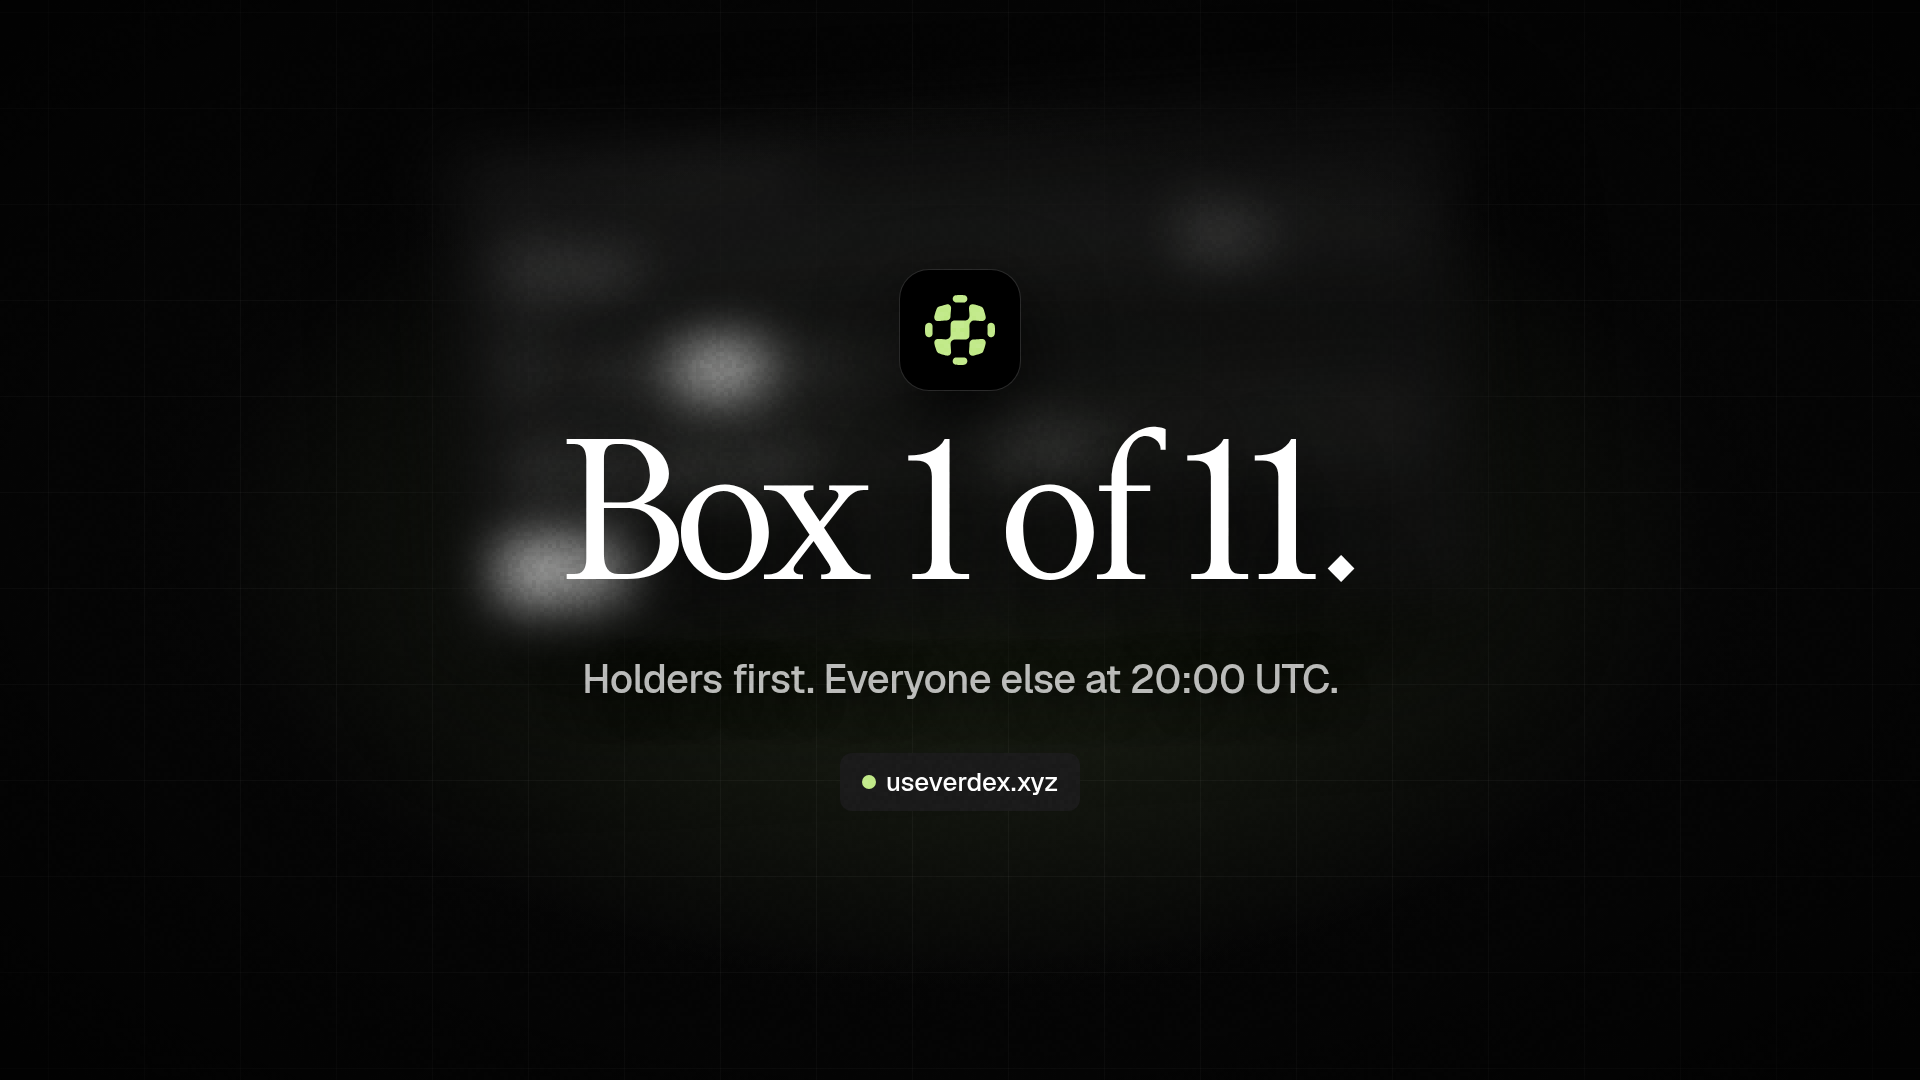
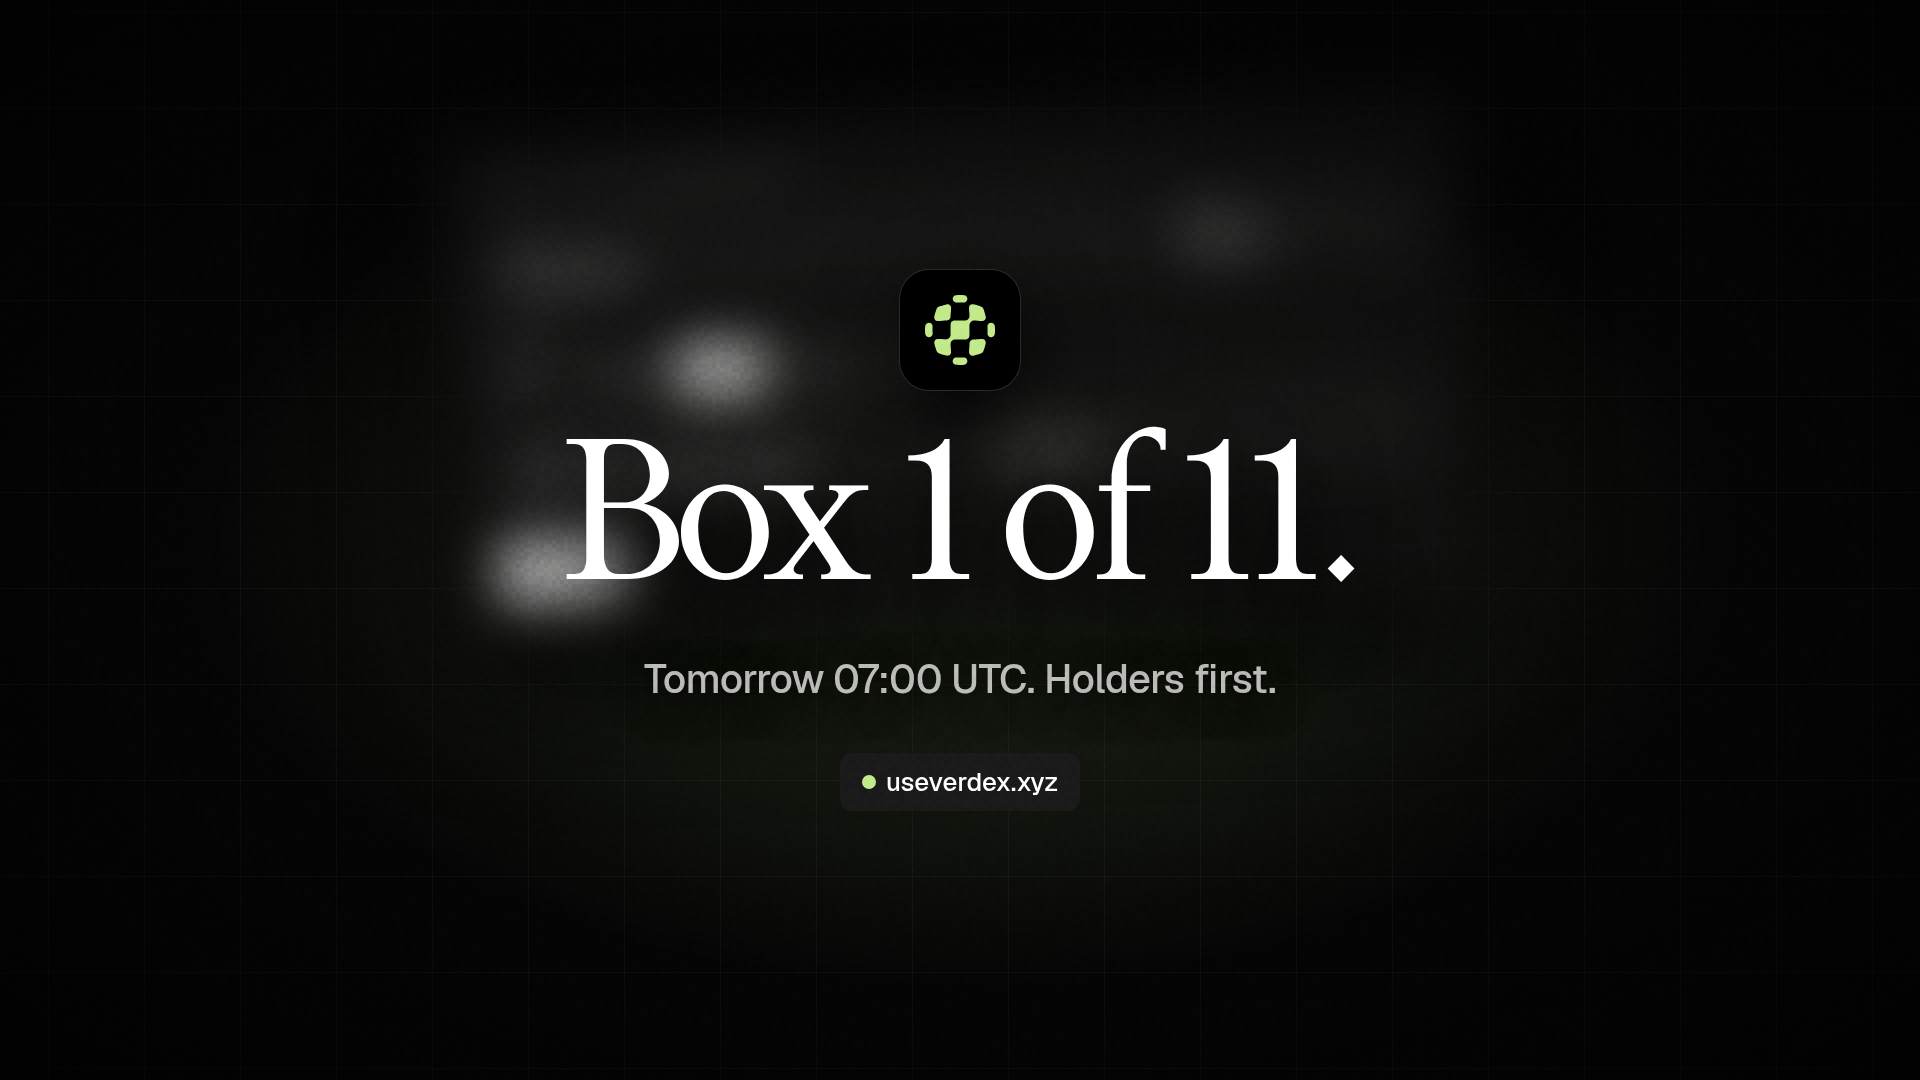
Verdex Index: gate opens 4 October 07:00 UTC

Changed region(s): [[0.3125, 0.6111, 0.6875, 0.6417]]

diff --git a/src/lib/holding.ts b/src/lib/holding.ts
@@ -29,7 +29,7 @@ export const EARLY_FEATURES: EarlyFeature[] = [
   { path: '/launch', label: 'Launchpad', opensAt: '2026-10-01T20:00:00Z' },
   { path: '/private-markets', label: 'Private Markets', opensAt: '2026-10-02T10:00:00Z' },
   { path: '/auto-invest/without-you', label: 'Auto-Invest without you', opensAt: '2026-10-02T20:00:00Z' },
-  { path: '/index', label: 'Verdex Index', opensAt: '2026-10-05T20:00:00Z' },
+  { path: '/index', label: 'Verdex Index', opensAt: '2026-10-04T07:00:00Z' },
 ]
 
 const client = () => createPublicClient({ transport: http(RPC, { retryCount: 3, retryDelay: 1200, timeout: 20_000 }) })

diff --git a/promo/README.md b/promo/README.md
@@ -73,7 +73,7 @@ The feature lives at `/orders` (`src/pages/OrdersPage.tsx` on top of `src/lib/or
 
 `coingecko-listed.html` is the 26-second film for the CoinGecko listing (approved 2 October 2026): the name, the CoinGecko lockup with the approval and request id, what the page shows and where it comes from, the page's numbers counting up, and the end card at `coingecko.com/en/coins/verdex`. Render with `node promo/render.mjs --page promo/coingecko-listed.html --out promo/verdex-coingecko-listed.mp4`. The photo is `coingecko-listed-photo.html`, rendered to `photos/coingecko-listed.png`.
 
-`vindex.html` is a 34-second film for Verdex Index: the name, the four launch indexes as cards with their stocks, the composer buying $100 of VX7 while the seven legs, the issue and the refund light up inside one transaction, four lines on what the contract can and cannot do, and the end card at `useverdex.xyz/index`. Render with `node promo/render.mjs --page promo/vindex.html --out promo/verdex-index.mp4`. The hype still is `photos/hype-index.png` (`teaser.html?bg=launch&line=Box%201%20of%2011.&sub=…`).
+`vindex.html` is a 34-second film for Verdex Index: the name, the four launch indexes as cards with their stocks, the composer buying $100 of VX7 while the seven legs, the issue and the refund light up inside one transaction, four lines on what the contract can and cannot do, and the end card at `useverdex.xyz/index`. Render with `node promo/render.mjs --page promo/vindex.html --out promo/verdex-index.mp4`. The hype still is `photos/hype-index.png` (`teaser.html?bg=launch&line=Box%201%20of%2011.&sub=Tomorrow%2007%3A00%20UTC.%20Holders%20first.`).
 
 `autopilot.html` is a 34-second film for Auto-Invest without you: the name, the plan composer (NVDA, $100 every week, twelve buys, the exact allowance counting up), four weekly buys landing while the tab is closed, the four things the contract guarantees, and the end card at `useverdex.xyz/auto-invest/without-you`. Render with `node promo/render.mjs --page promo/autopilot.html --out promo/verdex-autopilot.mp4`. The hype still is `photos/hype-autopilot.png` (`teaser.html?bg=yield&line=Close%20the%20tab.&sub=Tonight%20at%2020%3A00%20UTC…`).
 

diff --git a/promo/tweets.md b/promo/tweets.md
@@ -435,13 +435,19 @@ Spanish:
 
 Box 1 of phase 2 and the second Verdex contract family. Say it plainly: unaudited, capped, the index holds the stocks and nothing else, the creator's only lever is the cap. Never promise a return. Weights are units at today's prices, not a managed allocation.
 
-### Hype (image: `photos/hype-index.png`)
+### Hype (image: `photos/hype-index.png`, post the evening before)
 
 > Box 1 of 11.
 >
-> Holders first. Everyone else at 20:00 UTC.
+> Tomorrow, 07:00 UTC. Holders first, everyone else at the hour.
 >
 > useverdex.xyz
+
+An hour before:
+
+> One hour. Box 1 of 11 opens at 07:00 UTC.
+>
+> Holders are already inside.
 
 ### Launch tweet (post with the video, then pin it)
 
